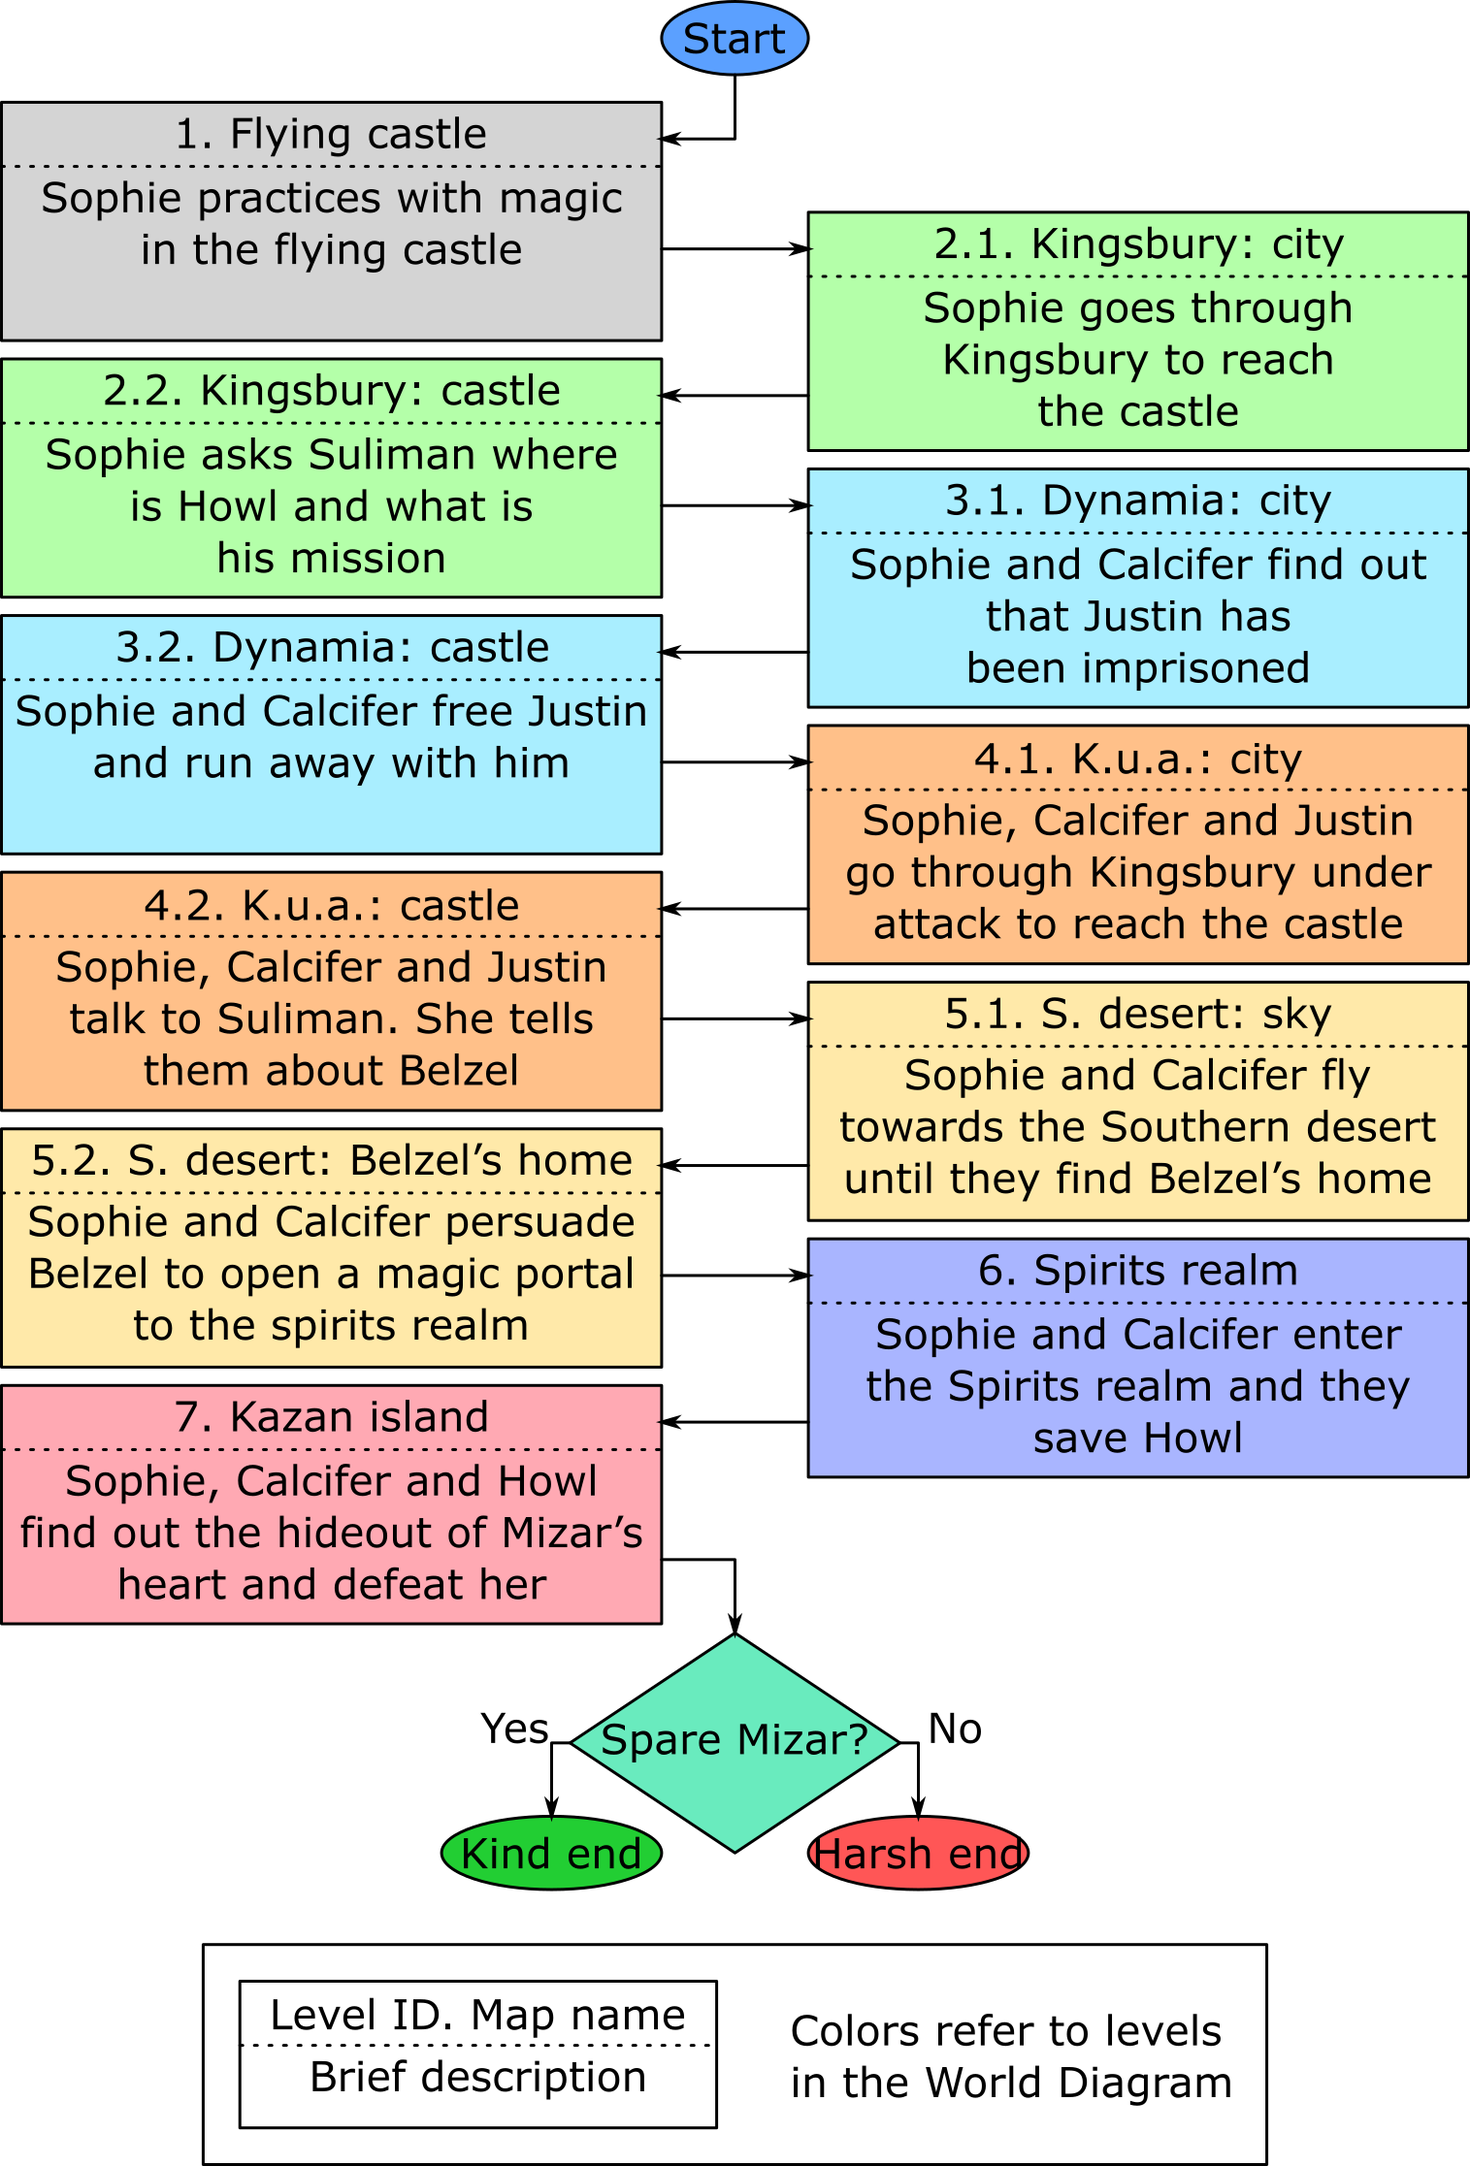
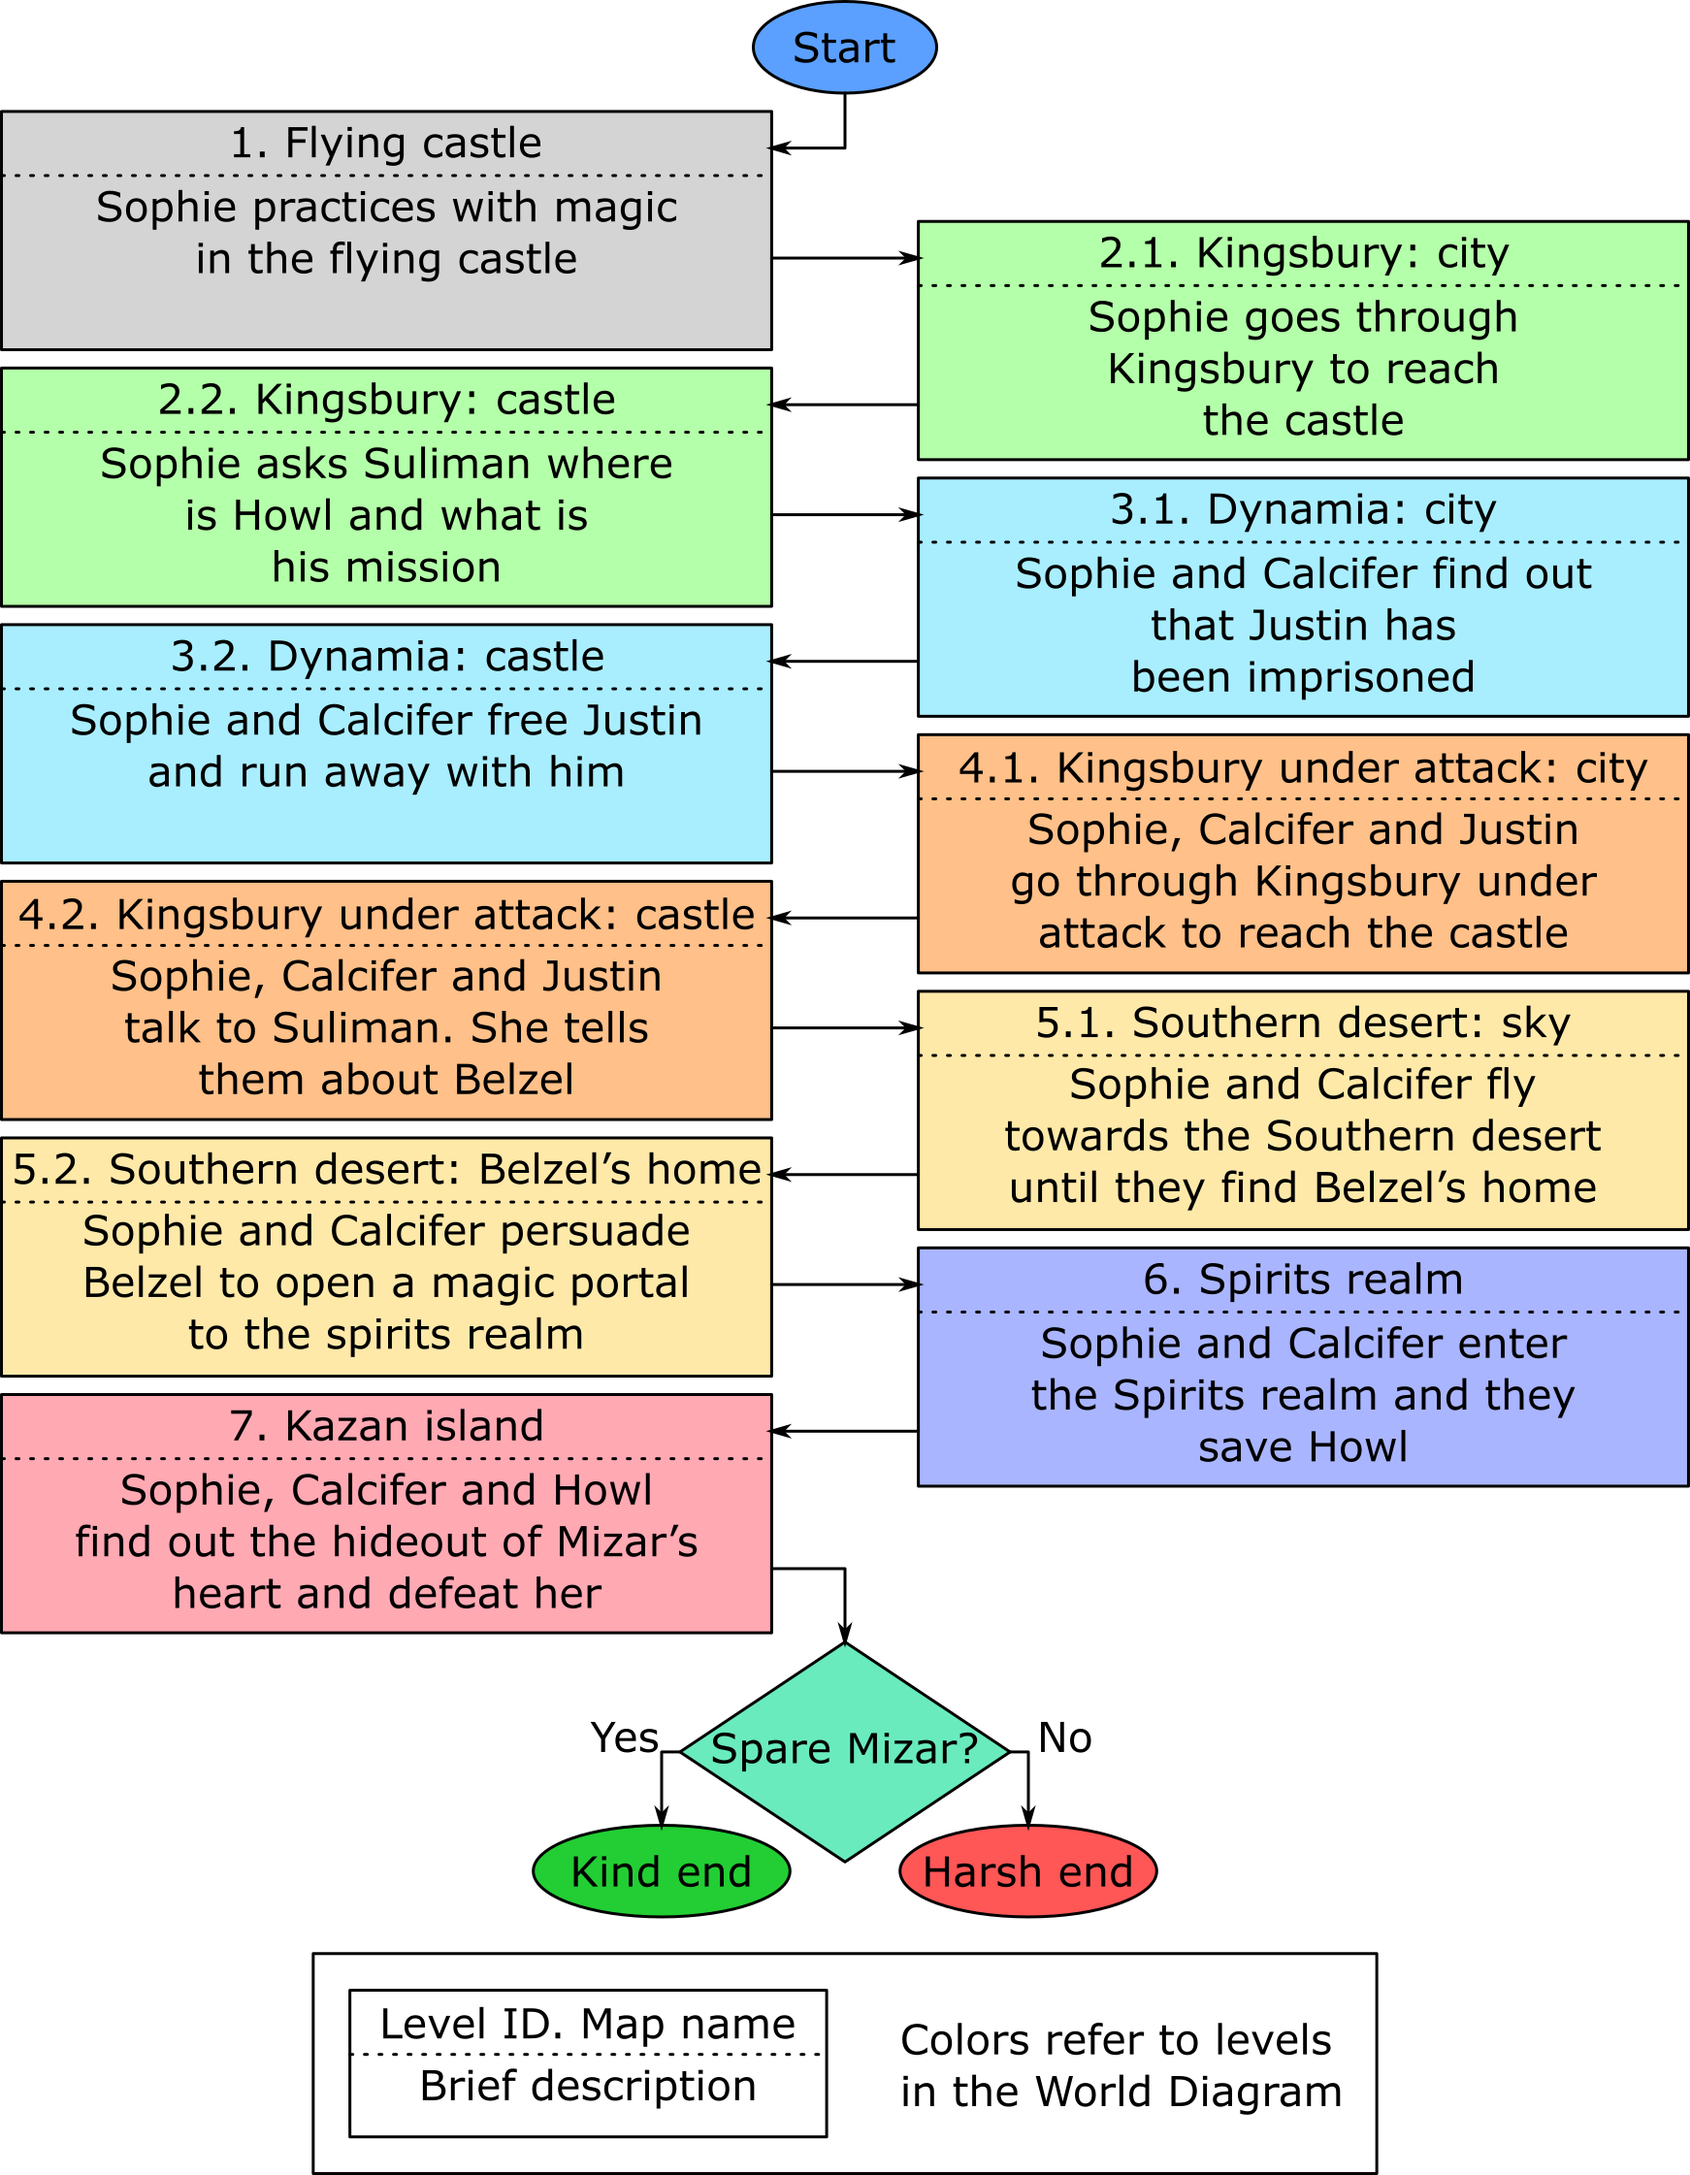
Ennesime modifiche.

Changed region(s): [[0.0, 0.0, 1.0, 1.0], [0.5274, 0.8961, 0.8686, 1.0]]

diff --git a/Documents/LevelDesignDocument/Story/levelProgressionChart.tex b/Documents/LevelDesignDocument/Story/levelProgressionChart.tex
@@ -5,7 +5,7 @@
 \rowcolor[HTML]{C0C0C0} 
 \multicolumn{1}{|l|}{\cellcolor[HTML]{C0C0C0}\textbf{Story act}} & \multicolumn{1}{l|}{\cellcolor[HTML]{C0C0C0}\textbf{Level}} & \multicolumn{1}{l|}{\cellcolor[HTML]{C0C0C0}\textbf{Sublevel}} & \textbf{Map} \\ \hline
 \multicolumn{1}{|l|}{\cellcolor[HTML]{C0C0C0}Act 1} & \multicolumn{1}{l|}{1. First steps} & \multicolumn{1}{l|}{} & Flying castle \\ \hline
-\multicolumn{1}{|l|}{} &  &  &  \\ \cline{2-4} 
+\multicolumn{1}{|l|}{} & \multicolumn{3}{l|}{} \\ \cline{2-4} 
  & \multicolumn{1}{l|}{2. Where is Howl?} & \multicolumn{1}{l|}{} & Kingsbury \\ \cline{2-4} 
  & \multicolumn{1}{l|}{} & \multicolumn{1}{l|}{2.1. The city of the king} & Kingsbury: city \\ \cline{3-4} 
  & \multicolumn{1}{l|}{} & \multicolumn{1}{l|}{2.2. A wizard's duty} & Kingsbury: castle \\ \hline
@@ -13,17 +13,17 @@
 \multicolumn{1}{|l|}{\cellcolor[HTML]{C0C0C0}Act 2} & \multicolumn{1}{l|}{3. In enemy territory} & \multicolumn{1}{l|}{} & Dynamia \\ \hline
  & \multicolumn{1}{l|}{} & \multicolumn{1}{l|}{3.1. Looking for information} & Dynamia: city \\ \cline{3-4} 
  & \multicolumn{1}{l|}{} & \multicolumn{1}{l|}{3.2. The imprisoned friend} & Dynamia: castle \\ \cline{2-4} 
- &  &  &  \\ \cline{2-4} 
+ &  \multicolumn{3}{l|}{}  \\ \cline{2-4} 
  & \multicolumn{1}{l|}{4. Nasty surprise(s)} & \multicolumn{1}{l|}{} & Kingsbury under attack \\ \cline{2-4} 
  & \multicolumn{1}{l|}{} & \multicolumn{1}{l|}{4.1. Battle cry} & Kingsbury under attack: city \\ \cline{3-4} 
  & \multicolumn{1}{l|}{} & \multicolumn{1}{l|}{4.2. An ancient legend} & Kingsbury under attack: castle \\ \cline{2-4} 
- &  &  &  \\ \cline{2-4} 
+ & \multicolumn{3}{l|}{} \\ \cline{2-4} 
  & \multicolumn{1}{l|}{5. The djinn of the desert} & \multicolumn{1}{l|}{} & Southern desert \\ \cline{2-4} 
  & \multicolumn{1}{l|}{} & \multicolumn{1}{l|}{5.1. Nel blu dipinto di blu} & Southern desert: sky \\ \cline{3-4} 
  & \multicolumn{1}{l|}{} & \multicolumn{1}{l|}{5.2. The last hope} & Southern desert: Belzel's home \\ \hline
 \multicolumn{4}{|l|}{} \\ \hline
 \multicolumn{1}{|l|}{\cellcolor[HTML]{C0C0C0}Act 3} & \multicolumn{1}{l|}{6. The spirits realm} & \multicolumn{1}{l|}{} & Spirits realm \\ \hline
- &  &  &  \\ \cline{2-4} 
+ & \multicolumn{3}{l|}{} \\ \cline{2-4} 
  & \multicolumn{1}{l|}{7. Fire and secrets} & \multicolumn{1}{l|}{} & Kazan island \\ \hline
 
 % &  &  &  \\ \cline{2-4} 

diff --git a/Documents/LevelDesignDocument/Puzzles/castleOfDynamia.tex b/Documents/LevelDesignDocument/Puzzles/castleOfDynamia.tex
@@ -16,6 +16,8 @@
 
 In order to enter in the courtyard, the player can use some debris to build the Spider machine that allows him/her to climb the wall without being detected.
 
+\textit{This puzzle is alternative to a fight.}
+
 %The player has different parts and he/she has to understand how to combine them. He/She has to break some part to obtain new components. Some parts are not required to build the machine.
 
 %The player has to reorder the pieces of a mosaic representing the machine itself.
@@ -45,6 +47,8 @@ When the player rotates the outer ring of one step, the middle ring rotates in t
 When the player rotates the middle ring of one step, the outer ring rotates in the same direction.
 
 When the player rotate the inner ring of one step, the middle ring rotates in the same direction.
+
+\textit{This puzzle is alternative to a fight.}
 
 \subsubsection*{Technical details}
 The starting and the final position of the circles can be found in the pictures here above.
@@ -113,6 +117,8 @@ The player has to press the bricks under the torch in the positions correspondin
 
 The player has to press the bricks in the order specified by the small arrows. If he/she presses them in the right order, the previous bricks stay pressed, otherwise all the bricks return to their normal state and the player has to start again.
 
+\textit{This puzzle is alternative to a fight.}
+
 \subsubsection*{Solution}
 \begin{figure}[H]
   \centering
@@ -178,6 +184,8 @@ When the player connects a plug, he/she can see some flashing lights that flow f
 	\item Right bar: (\textcolor{blue}{2}+\textcolor{blue}{4})/(\textcolor{red}{1}+\textcolor{blue}{2}+\textcolor{red}{2}+\textcolor{blue}{4}) = 6/9 = 2/3
 \end{itemize}
 
+\textit{This puzzle is alternative to a fight.}
+
 \subsubsection*{Solution}
 The player has to connect the cables I and III with the terminals II and IV (pairs are not relevant) to fill the left bar for 2/5 and the right bar for 3/5.
 
@@ -217,6 +225,8 @@ To do so, the player has to destroy two supports. Calcifer can hit only one of t
 The player has also to draw the captain under the crumbling blocks before destroying the second support. To do so, he/she can use a bottle (5C in the map).
 
 If the captain sees the player, he/she has to fight and defeat him.
+
+\textit{This puzzle is alternative to a fight.}
 
 \subsubsection*{Solution}
 \begin{enumerate}

diff --git a/Documents/DataManagementDocument/revisionHistory.tex b/Documents/DataManagementDocument/revisionHistory.tex
@@ -27,12 +27,12 @@ Francesco Periti & 28/11/2018 & Added conventions for new directories\\ \hline
 Francesco Principe & 28/11/2018 & Editet conventions for new directories\\ \hline
 Davide Valentini & 29/11/2018 & Added permissions for new directories\\ \hline
 Francesco Principe & 30/11/2018 & Added some directory to the structure\\ \hline
-Francesco Principe & 1/12/2018 & Added some directory to the structure\\ \hline
-Davide Valentini & 4/12/2018 & Added file naming conventions\\ \hline
-Davide Valentini & 5/12/2018 & Added conventions for new directories\\ \hline
-Davide Valentini & 6/12/2018 & Edited directories structure and relative conventions\\ \hline
-Francesco Periti & 6/12/2018 & Added some directory to the structure\\ \hline
-Francesco Periti & 6/12/2018 & Added conventions for new directories\\ \hline
+Francesco Principe & 01/12/2018 & Added some directory to the structure\\ \hline
+Davide Valentini & 04/12/2018 & Added file naming conventions\\ \hline
+Davide Valentini & 05/12/2018 & Added conventions for new directories\\ \hline
+Davide Valentini & 06/12/2018 & Edited directories structure and relative conventions\\ \hline
+Francesco Periti & 06/12/2018 & Added some directory to the structure\\ \hline
+Francesco Periti & 06/12/2018 & Added conventions for new directories\\ \hline
 Francesco Principe & 10/12/2018 &  Added rows for table in data type and format\\ \hline
 Francesco Principe & 10/12/2018 & Added file naming conventions\\ \hline
 Francesco Periti & 10/12/2018 & Added website section\\ \hline
@@ -40,6 +40,6 @@ Francesco Periti & 11/12/2018 & Global revision\\ \hline
 Francesco Periti & 27/12/2018 & Added some directory to the structure\\ \hline
 Davide Valentini & 30/12/2018 & Added conventions for new directories\\ \hline
 Francesco Principe & 03/01/2019 & Global revision\\ \hline
-Whole team & 07/01/2019 & Global revision \\ \hline
+Whole team & 08/01/2019 & Global revision \\ \hline
 \end{tabularx}
 \end{table}

diff --git a/Documents/LevelDesignDocument/revisionHistory.tex b/Documents/LevelDesignDocument/revisionHistory.tex
@@ -20,7 +20,7 @@ Davide Valentini & 19/11/2018 & Added cover, minor corrections \\ \hline
 Francesco Periti & 20/11/2018 & Added level progression chart \\ \hline
 Francesco Principe & 21/11/2018 & Updated high concept \\ \hline
 Davide Valentini & 22/11/2018 & Updated world diagram \\ \hline
-Francesco Principe & 23/11/2018 & Added synopsis \\ \hline
+Francesco Principe & 23/11/2018 & Updated synopsis \\ \hline
 Davide Valentini & 24/11/2018 & Updated story flowchart \\ \hline
 Francesco Periti & 26/11/2018 & Added story level \\ \hline
 Francesco Principe & 27/11/2018 & Story level revision and update \\ \hline
@@ -44,12 +44,12 @@ Davide Valentini & 20/12/2018 & Added secondary missions \\ \hline
 Francesco Periti & 21/12/2018 & Added statistics for rewards \\ \hline
 Francesco Principe & 22/12/2018 & Added lighting \\ \hline
 Davide Valentini & 23/12/2018 & Added FSMs \\ \hline
-Davide Valentini & 27/12/2018 & Added more audio descriptions \\ \hline
+Davide Valentini & 27/12/2018 & Added audio descriptions \\ \hline
 Francesco Principe & 28/12/2018 & Added rewards to map \\ \hline
 Davide Valentini & 29/12/2018 & Added Exp charts \\ \hline
 Francesco Principe & 03/01/2019 & Updated puzzle boss fight \\ \hline
 Davide Valentini & 04/01/2019 & Updated machines sketches \\ \hline
 Francesco Principe & 05/01/2019 & Added background music \\ \hline
 Davide Valentini & 06/01/2019 & Updated map of the the Castle \\ \hline
-Whole team & 07/01/2019 & Global revision \\ \hline
+Whole team & 08/01/2019 & Global revision \\ \hline
 \end{longtable}

diff --git a/Documents/LevelDesignDocument/Audio/dynamia.tex b/Documents/LevelDesignDocument/Audio/dynamia.tex
@@ -46,30 +46,30 @@ Sometimes you hear the cry of some seagulls. Everywhere but in the central area 
 \textbf{Woman 5 (worried)} I'm worried there will be nothing like that. The mask shops are almost all closed.
 
 \subsection{Lines for merchants in Dynamia}
-When the player approaches the merchant:
+\subsubsection*{When the player approaches the merchant}
 
-\textbf{Merchant}:Hello, miss. What are you looking for?
+\textbf{Merchant}: Hello, miss. What are you looking for?
 
-\textbf{Merchant}:Hello. Look at my merch! I am sure you will find something!
-
-
-
-When the player buys something:
-
-\textbf{Merchant}:That' s a good choice!
-
-\textbf{Merchant}:Deal!
+\textbf{Merchant}: Hello. Look at my merch! I am sure you will find something!
 
 
-When the player sells something:
 
-\textbf{Merchant}:I really needed that!
+\subsubsection*{When the player buys something}
 
-\textbf{Merchant}:Thank you, I love this!
+\textbf{Merchant}: That's a good choice!
+
+\textbf{Merchant}: Deal!
 
 
-When the player leaves:
+\subsubsection*{When the player sells something}
 
-\textbf{Merchant}:Farewell!
+\textbf{Merchant}: I really needed that!
 
-\textbf{Merchant}:Have a nice day!
+\textbf{Merchant}: Thank you, I love this!
+
+
+\subsubsection*{When the player leaves}
+
+\textbf{Merchant}: Farewell!
+
+\textbf{Merchant}: Have a nice day!

diff --git a/Documents/LevelDesignDocument/Audio/backgroundMusic.tex b/Documents/LevelDesignDocument/Audio/backgroundMusic.tex
@@ -3,7 +3,7 @@ In this section we will provide some guidelines for the background music in the 
 
 In general, the volume turns down when the player is talking to an NPC or when he/she is in a stealth phase.
 
-\subsubsection{Hub}
+\subsubsection{Flying castle}
 The music recalls the theme music of Howl's castle in the movie.
 
 \subsubsection{Kingsbury}
@@ -19,13 +19,13 @@ In the city there is a high bpm classical music.
 
 When the player gets inside the castle, he/she is in safe and the music becomes more quiet and closer to the one of Kingsbury in the movie.
 
-\subsubsection{Desert}
+\subsubsection{Southern desert}
 An arabic music that recalls the theme of the desert and the loneliness of the place.
 
 \subsubsection{Spirits realm}
 A flutes music that recalls the magical atmosphere of the place.
 
-\subsubsection{Kazan Island}
+\subsubsection{Kazan island}
 The music recalls the music of Kingsbury under attack but becomes more solemn as the player gets closer to Mizar.
 
 \subsubsection{Battle}

diff --git a/Documents/LevelDesignDocument/LevelStory/rewardsMapping.tex b/Documents/LevelDesignDocument/LevelStory/rewardsMapping.tex
@@ -3,13 +3,11 @@ Here is how rewards have been mapped within Dynamia and the castle
 \begin{figure}[H]
   \centering
   \includegraphics[width=\textwidth]{Images/Maps/dynamiaRewardsMapping}
-  \caption{Rewards map}
+  \caption{Rewards map in Dynamia}
 \end{figure}
 
 \begin{figure}[H]
   \centering
   \includegraphics[width=\textwidth]{Images/Maps/castleOfDynamiaRewardsMapping}
-  \caption{Rewards map}
+  \caption{Rewards map in the Castle of Dynamia}
 \end{figure}
-
-\hspace{0pt} \\ % to ensure clearpage before section

diff --git a/Documents/LevelDesignDocument/Puzzles/index.tex b/Documents/LevelDesignDocument/Puzzles/index.tex
@@ -1,5 +1,7 @@
 \chapter{Puzzles}
-\textit{All puzzles need to be playtested to ensure the optimal degree of difficulty.}
+During the game the player is asked to solve many puzzles. Some of these puzzles are required to continue the story, others are alternative to fights against some enemies.
+
+All puzzles need to be playtested to ensure the optimal degree of difficulty.
 
 \input{Puzzles/dynamia}
 \input{Puzzles/castleOfDynamia}

diff --git a/Documents/LevelDesignDocument/Puzzles/dynamia.tex b/Documents/LevelDesignDocument/Puzzles/dynamia.tex
@@ -1,4 +1,4 @@
-{\let\clearpage\relax\section{Dynamia}}
+\section{Dynamia}
 
 \begin{figure}[H]
   \centering
@@ -9,5 +9,7 @@
 \subsection{1. Build the Shark machine}
 
 In order to run away from the Castle of Dynamia, the player has to build the Shark machine that allows him/her to move on the water.
+
+\textit{This puzzle is required to continue the story.}
 
 See the section \textit{Machine building puzzle}.
